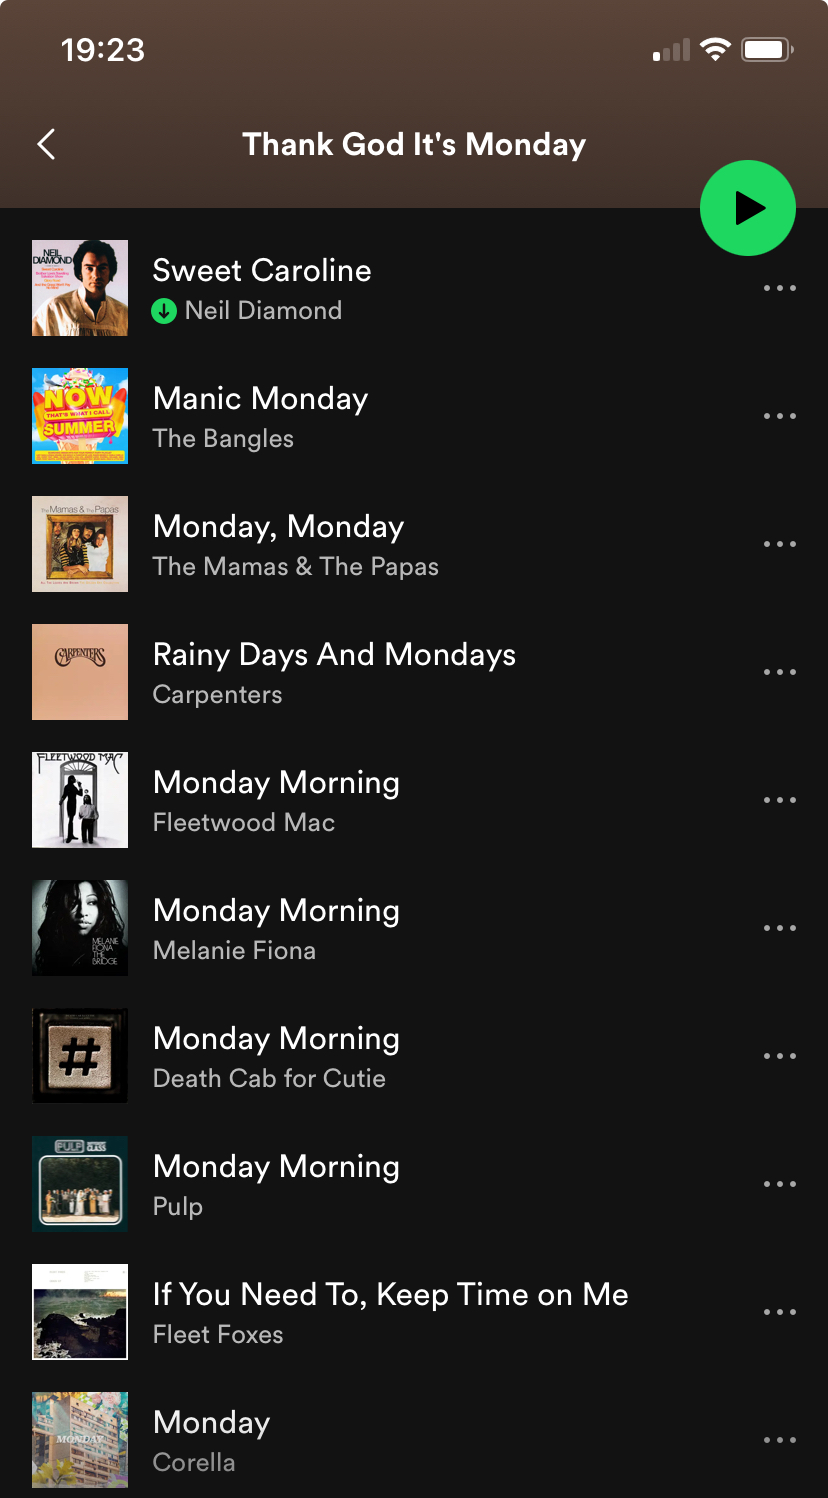
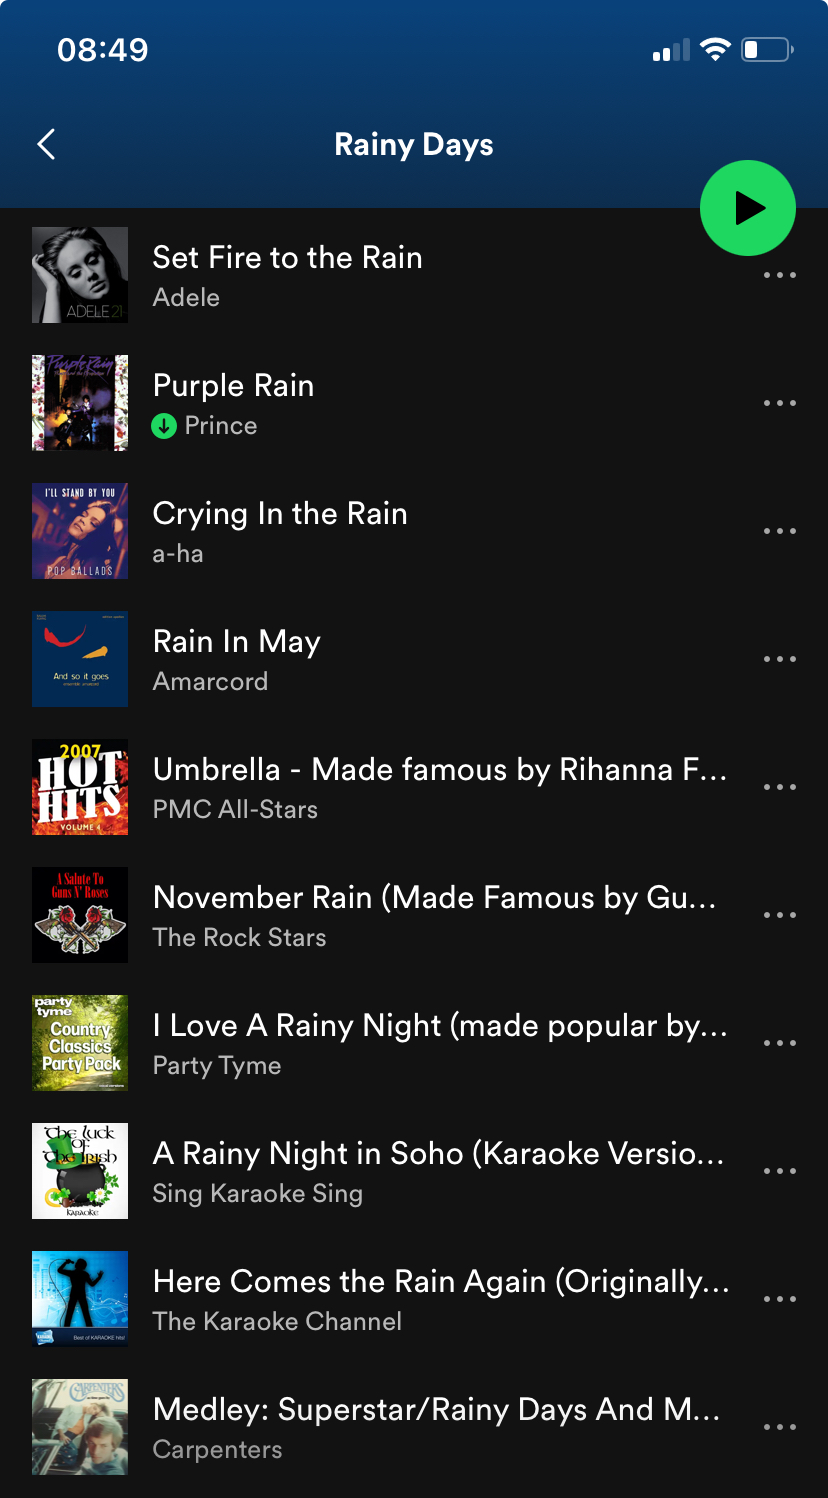
update Readme

diff --git a/README.md b/README.md
@@ -3,7 +3,7 @@
 Music Playlist Generator, using the OpenAI API and the Spotify API. A single line of command generates a playlist on the connected Spotify account.
 
 
-Example command: `python app.py -p "Thank God It's Monday!" -n 10 -m "gpt-4o"`
+Example command: `python app.py -p "Rainy Days" -n 10 -m "gpt-4o"`
 
 Arguments:
 
